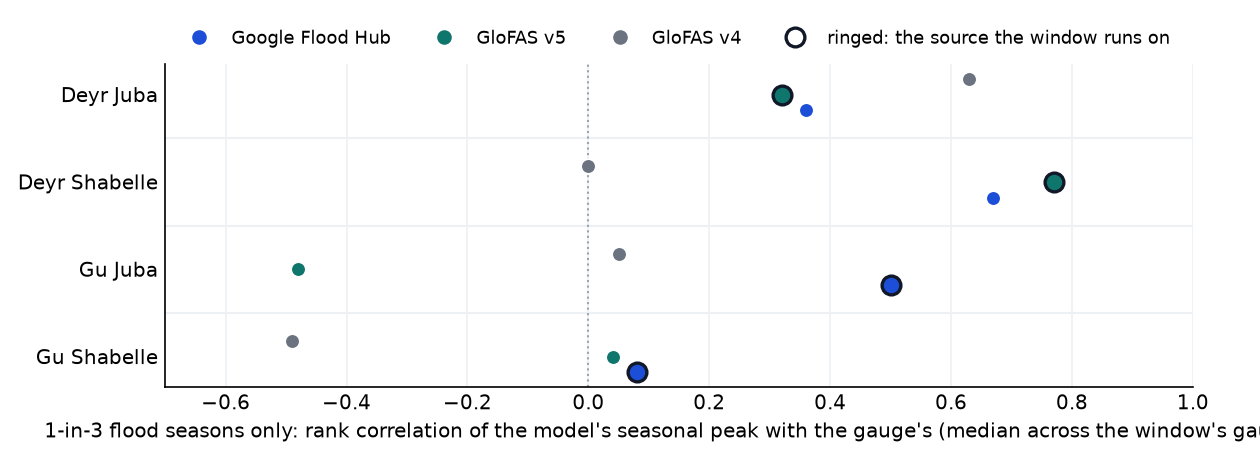
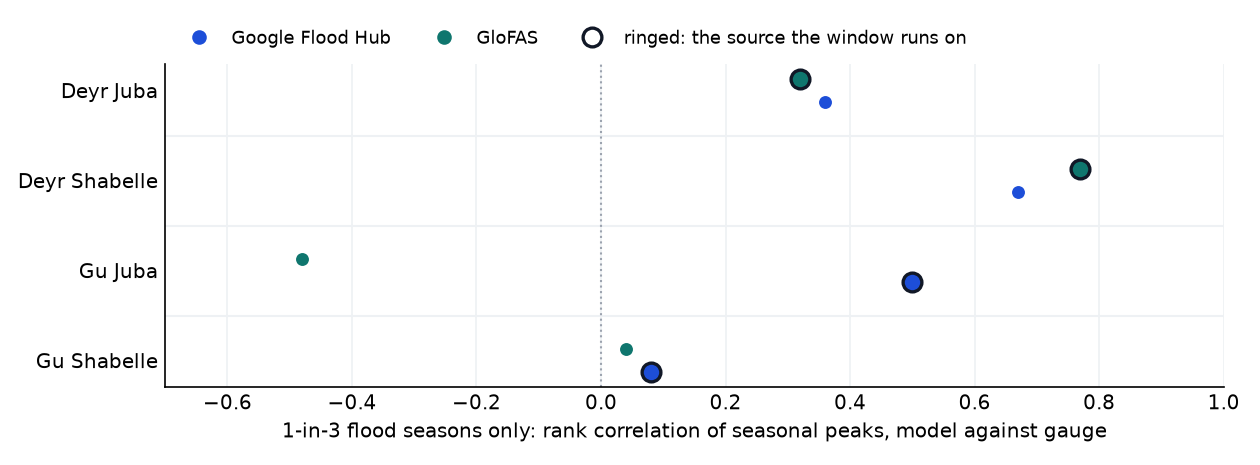
Summary page: reanalysis comparison is Google against GloFAS v5 only
The Which source table and the agreement plot compare the two calibrated
records, Google's retrospective run and GloFAS's version 5 reanalysis. GloFAS
v4 leaves this section; it is compared where it belongs, against Google's
reforecast, in Checked on the forecasts. The section says which record each
test uses. Axis label shortened so it no longer clips.

diff --git a/pages/trigger-single-model/summary.html b/pages/trigger-single-model/summary.html
@@ -28,4 +28,4 @@ details{margin:14px 0} summary{cursor:pointer;font-weight:600;padding:4px 0;colo
 <header><div class="wrap"><small>Somalia Riverine Flood Trigger / summary</small>
 <h1>How we got to the trigger</h1>
 <p>From what counts as a flood to what runs live, with the evidence each choice rests on. Figures are for 1999 to 2023 unless stated. Full analysis: <a href="index.html" style="color:#fff">trigger analysis page</a>.</p></div></header>
-<div class="wrap"><h2>The trigger</h2><p>Two rivers, two rainy seasons, four windows. Each window runs on one forecast source and one rule; any one window activating releases the full allocation.</p><div class='tw'><table><thead><tr><th>Window</th><th>Season</th><th>Source</th><th>Rule</th><th>Gauges</th></tr></thead><tbody><tr><td>Deyr Juba</td><td>October to December</td><td>GloFAS</td><td>3 of 4 gauges forecast over their own 1-in-4 level on the same day</td><td>Dollow, Luuq, Bardheere, Bualle</td></tr><tr><td>Deyr Shabelle</td><td>October to December</td><td>GloFAS</td><td>2 of 3 gauges forecast over their own 1-in-4 level on the same day</td><td>Belet Weyne, Bulo Burti, Jowhar</td></tr><tr><td>Gu Juba</td><td>March to May</td><td>Google Flood Hub</td><td>3 of 4 gauges forecast over their own 1-in-5 level on the same day</td><td>Dollow, Luuq, Bardheere, Bualle</td></tr><tr><td>Gu Shabelle</td><td>March to May</td><td>Google Flood Hub</td><td>2 of 3 gauges forecast over their own 1-in-6 level on the same day</td><td>Belet Weyne, Bulo Burti, Jowhar</td></tr></tbody></table></div><p class="note">Readiness activates 8 to 12 days ahead, on the GloFAS ensemble forecast in all windows or on a SWALIM moderate flood risk alert for either river, and releases the mobilisation share; action activates 1 to 7 days ahead and releases the rest. Thresholds are fitted on each source's own record, so a model that runs high is judged against itself.</p><h2>What counts as a flood</h2><p>The trigger is scored against what the rivers did, from the SWALIM gauge record. A river has a flood season when two of its gauges reach their own 1-in-3 level, a severe season when two reach 1-in-5. Each gauge's levels are fitted on its own 2000 to 2023 record.</p><div class='tw'><table><thead><tr><th>Window</th><th class="n">Flood seasons</th><th class="n">Severe</th><th>Severe years</th></tr></thead><tbody><tr><td>Deyr Juba</td><td class="n">5</td><td class="n">3</td><td>2006, 2014, 2023</td></tr><tr><td>Deyr Shabelle</td><td class="n">6</td><td class="n">5</td><td>2006, 2014, 2019, 2020, 2023</td></tr><tr><td>Gu Juba</td><td class="n">6</td><td class="n">3</td><td>2018, 2020, 2023</td></tr><tr><td>Gu Shabelle</td><td class="n">7</td><td class="n">3</td><td>2016, 2020, 2023</td></tr></tbody></table></div><p class="note">Across both rivers: 12 flood years, 7 severe. Gauges are capped at bank full, so the largest floods record the same reading, and a season where only one gauge crosses does not count even at bank full (Gu 2021 at Belet Weyne).</p><h2>Which source, and why</h2><p>Three global models were candidates: Google Flood Hub, GloFAS and GEOGloWS. GEOGloWS runs 4 to 10 times too high on the Shabelle and has no forecast archive, so it drops out. The other two were tested twice on each window: do they rank the flood seasons in the same order of size as the gauges did, and how many of the 1-in-3 flood seasons do they catch when the window's rule is applied to their own record. The ranking measure runs from 1, the model puts the flood seasons in exactly the gauges' order, through 0, no relation, to negative values, the wrong order.</p><div class='tw'><table><thead><tr><th></th><th colspan='3' class='n' style='border-bottom:1px solid var(--rule)'>Ranks the flood seasons as the gauges did</th><th colspan='3' class='n' style='border-bottom:1px solid var(--rule)'>1-in-3 flood seasons caught at the window's rule</th><th></th></tr><tr><th>Window</th><th class="n">Google Flood Hub</th><th class="n">GloFAS v5</th><th class="n">GloFAS v4</th><th class="n">Google Flood Hub</th><th class="n">GloFAS v5</th><th class="n">GloFAS v4</th><th>Chosen</th></tr></thead><tbody><tr><td>Deyr Juba</td><td class="n">0.36</td><td class="n">0.32</td><td class="n">0.63</td><td class="n">2 of 5</td><td class="n">2 of 5</td><td class="n">3 of 5</td><td>GloFAS</td></tr><tr><td>Deyr Shabelle</td><td class="n">0.67</td><td class="n">0.77</td><td class="n">0.00</td><td class="n">5 of 6</td><td class="n">5 of 6</td><td class="n">3 of 6</td><td>GloFAS</td></tr><tr><td>Gu Juba</td><td class="n">0.50</td><td class="n">-0.48</td><td class="n">0.05</td><td class="n">3 of 6</td><td class="n">4 of 6</td><td class="n">4 of 6</td><td>Google Flood Hub</td></tr><tr><td>Gu Shabelle</td><td class="n">0.08</td><td class="n">0.04</td><td class="n">-0.49</td><td class="n">3 of 7</td><td class="n">4 of 7</td><td class="n">4 of 7</td><td>Google Flood Hub</td></tr></tbody></table></div><figure><img src="figs/s_agreement.png" alt="Agreement with the gauges in flood seasons, by window and model"><figcaption>Ranking agreement, the left half of the table: rank correlation between the model's seasonal peak and the gauge's, over the gauge's own 1-in-3 seasons only (4 to 10 per gauge), median across the window's gauges. The ringed dot is the source the window runs on. Seasons caught, in the table, is the number of the window's 1-in-3 flood seasons in which the model's own record met the window's rule.</figcaption></figure><p>Google Flood Hub carries Gu: it ranks the flood seasons closest to the gauges, catches every severe Gu season that GloFAS catches (GloFAS catches one more of the moderate 1-in-3 seasons in each Gu window, and Google carries one activation in a year with no gauge flood, 2013), and its Gu forecasts arrive before the flood where GloFAS v4's mostly arrive after it, as the next section shows. GloFAS carries Deyr: Google over-activates on the Juba there (three activations with no flood) and misses the Shabelle in 2020, while GloFAS's Deyr record is clean. GloFAS v4, the version running live, ranks the flood seasons least like the gauges (pooled 0.03 against 0.43 for Google) and catches one severe Gu season of three on the Shabelle. Gu Shabelle reads near zero on ranking for every model because the gauge is capped at bank full in the largest floods; a limit of the record, not of the models.</p><h2>How often it activates</h2><p>Every threshold sits at 1-in-3 or rarer; the vote counts were set so the whole mechanism activates about once in three years while still catching every severe season.</p><div class='tw'><table><thead><tr><th></th><th class="n">Activations, 25 years</th><th>Return period</th><th>Years</th></tr></thead><tbody><tr><td>Deyr Juba</td><td class="n">2</td><td>1-in-13.0</td><td>2006, 2023</td></tr><tr><td>Deyr Shabelle</td><td class="n">6</td><td>1-in-4.3</td><td>2006, 2013, 2014, 2019, 2020, 2023</td></tr><tr><td>Gu Juba</td><td class="n">4</td><td>1-in-6.5</td><td>2013, 2016, 2018, 2020</td></tr><tr><td>Gu Shabelle</td><td class="n">4</td><td>1-in-6.5</td><td>2013, 2016, 2018, 2020</td></tr><tr><td>Juba, either window</td><td class="n">6</td><td>1-in-4.3</td><td>2006, 2013, 2016, 2018, 2020, 2023</td></tr><tr><td>Shabelle, either window</td><td class="n">8</td><td>1-in-3.2</td><td>2006, 2013, 2014, 2016, 2018, 2019, 2020, 2023</td></tr><tr><td>Whole mechanism</td><td class="n">8</td><td>1-in-3.2</td><td>2006, 2013, 2014, 2016, 2018, 2019, 2020, 2023</td></tr></tbody></table></div><figure><img src="figs/s_activations.png" alt="Flood seasons and activations by year and window"><figcaption>Squares: gauge flood seasons, dark where severe. Dots: years the window activates on its source, Google Flood Hub in Gu and GloFAS in Deyr. 8 activations in 25 years, all 7 severe seasons caught, one activation with no gauge flood behind it (2013, a year SWALIM and WFP both record as a major flood). Return periods are Weibull, (years + 1) over activations.</figcaption></figure><h2>Checked on the forecasts</h2><p>The tests above use each model's record of the past. A trigger runs on forecasts, so the historical forecasts were replayed to find the day the alert would have gone out, at lead times of 1 to 7 days, against the day the flood began at the gauges. Either river counts. Only Google Flood Hub (2016 to 2023) and GloFAS v4 (2003 to 2023, plus the live Gu 2024 forecasts) have archives, so this is a comparison of those two.</p><figure><img src="figs/s_leads.png" alt="Lead time of the first forecast issue meeting the rule, per flood season"><figcaption>One row per flood season, * severe. Green: the action window, 1 to 7 days before the flood; pale green: readiness. The dot is the first forecast issue that met the rule; the small ticks are every later issue that met it again. Points left of the line went out before the flood began; points to the right came after it.</figcaption></figure><p>Deyr: GloFAS v4 activated before the flood in 4 of 7 seasons and was first in 3 of the 4 both archives cover. Gu: Google was first in all 4, and on the Shabelle gave 10 to 13 days of warning in three of four seasons where GloFAS v4 gave 3 days once and nothing in the other three. The lead-time evidence and the calibration choice were made independently and agree.</p><details><summary>Flood by flood</summary><div class='tw'><table><thead><tr><th>Season</th><th>River(s) that flooded</th><th>Flood began</th><th>Google Flood Hub forecast</th><th>GloFAS v4 forecast</th><th>First</th></tr></thead><tbody><tr><td>Deyr 2006 *</td><td>Juba and Shabelle</td><td>30 Oct</td><td><span class="pill na">no archive</span></td><td><span class="pill never">never crossed</span></td><td></td></tr><tr><td>Deyr 2008</td><td>Juba and Shabelle</td><td>15 Nov</td><td><span class="pill na">no archive</span></td><td><span class="pill never">never crossed</span></td><td></td></tr><tr><td>Deyr 2014 *</td><td>Juba and Shabelle</td><td>20 Oct</td><td><span class="pill na">no archive</span></td><td><span class="pill before">13 d before</span><span class="who">Shabelle, 7 Oct</span></td><td></td></tr><tr><td>Deyr 2017</td><td>Juba</td><td>7 Nov</td><td><span class="pill never">never crossed</span></td><td><span class="pill before">19 d before</span><span class="who">Juba, 19 Oct</span></td><td>GloFAS v4</td></tr><tr><td>Deyr 2019 *</td><td>Shabelle</td><td>14 Oct</td><td><span class="pill before">12 d before</span><span class="who">Shabelle, 2 Oct</span></td><td><span class="pill before">12 d before</span><span class="who">Shabelle, 2 Oct</span></td><td>tie</td></tr><tr><td>Deyr 2020 *</td><td>Shabelle</td><td>1 Oct</td><td><span class="pill never">never crossed</span></td><td><span class="pill after">1 d after</span><span class="who">Shabelle, 2 Oct</span></td><td>GloFAS v4</td></tr><tr><td>Deyr 2023 *</td><td>Juba and Shabelle</td><td>25 Oct</td><td><span class="pill never">never crossed</span></td><td><span class="pill before">4 d before</span><span class="who">Juba, 21 Oct</span></td><td>GloFAS v4</td></tr><tr><td>Gu 2003</td><td>Shabelle</td><td>11 May</td><td><span class="pill na">no archive</span></td><td><span class="pill never">never crossed</span></td><td></td></tr><tr><td>Gu 2005</td><td>Juba and Shabelle</td><td>12 May</td><td><span class="pill na">no archive</span></td><td><span class="pill after">6 d after</span><span class="who">Shabelle, 18 May</span></td><td></td></tr><tr><td>Gu 2010</td><td>Juba and Shabelle</td><td>18 May</td><td><span class="pill na">no archive</span></td><td><span class="pill before">7 d before</span><span class="who">Shabelle, 11 May</span></td><td></td></tr><tr><td>Gu 2016 *</td><td>Juba and Shabelle</td><td>1 May</td><td><span class="pill before">1 d before</span><span class="who">Shabelle, 30 Apr</span></td><td><span class="pill after">7 d after</span><span class="who">Shabelle, 8 May</span></td><td>Google</td></tr><tr><td>Gu 2018 *</td><td>Juba and Shabelle</td><td>17 Apr</td><td><span class="pill before">2 d before</span><span class="who">Juba, 15 Apr</span></td><td><span class="pill after">17 d after</span><span class="who">Juba, 4 May</span></td><td>Google</td></tr><tr><td>Gu 2020 *</td><td>Juba and Shabelle</td><td>22 Apr</td><td><span class="pill same">same day</span><span class="who">Shabelle, 22 Apr</span></td><td><span class="pill after">9 d after</span><span class="who">Juba, 1 May</span></td><td>Google</td></tr><tr><td>Gu 2023 *</td><td>Juba and Shabelle</td><td>25 Mar</td><td><span class="pill after">32 d after</span><span class="who">Shabelle, 26 Apr</span></td><td><span class="pill never">never crossed</span></td><td>Google</td></tr><tr><td>Gu 2024 *</td><td>Juba and Shabelle</td><td>8 May</td><td><span class="pill na">no archive</span></td><td><span class="pill before">3 d before</span><span class="who">Juba, 5 May</span></td><td></td></tr></tbody></table></div></details><h2>SWALIM's alerts, and the fail-safe</h2><p>SWALIM's flood bulletins were first in 6 of the 8 seasons where both SWALIM and the window's source flagged, and in 5 seasons only SWALIM flagged. They are forward-looking and often early, so a SWALIM moderate flood risk alert for either river activates readiness. They cannot carry the action phase: CERF needs an activation basis that can be backtested, and the bulletins are expert judgement rather than a fixed rule.</p><p>If every forecast misses, a gauge at bank full is the fail-safe. On the record that would have activated 4 seasons no forecast caught, including Gu 2023 on the Shabelle, the one severe season every model missed. Where a forecast also activated, bank full came 3 to 14 days later: coverage, not lead time.</p><details><summary>SWALIM against the window's source, season by season</summary><div class='tw'><table><thead><tr><th>Season</th><th>River</th><th>SWALIM first bulletin</th><th>Who was first</th></tr></thead><tbody><tr><td>Deyr 2006</td><td>Juba</td><td>2006-10-31</td><td>GloFAS v5 2 d before SWALIM</td></tr><tr><td>Deyr 2006</td><td>Shabelle</td><td>2006-10-31</td><td>SWALIM 2 d before GloFAS v5</td></tr><tr><td>Deyr 2014</td><td>Juba</td><td>2014-10-15</td><td>SWALIM only; GloFAS v5 never crossed</td></tr><tr><td>Deyr 2014</td><td>Shabelle</td><td>2014-10-15</td><td>SWALIM 1 d before GloFAS v5</td></tr><tr><td>Deyr 2019</td><td>Juba</td><td>2019-10-22</td><td>SWALIM only; GloFAS v5 never crossed</td></tr><tr><td>Deyr 2019</td><td>Shabelle</td><td>2019-10-22</td><td>GloFAS v5 11 d before SWALIM</td></tr><tr><td>Deyr 2020</td><td>Shabelle</td><td>2020-09-08</td><td>no bulletin for the October rise</td></tr><tr><td>Deyr 2023</td><td>Juba</td><td>2023-10-20</td><td>SWALIM 9 d before GloFAS v5</td></tr><tr><td>Deyr 2023</td><td>Shabelle</td><td>2023-10-21</td><td>SWALIM 19 d before GloFAS v5</td></tr><tr><td>Gu 2016</td><td>Shabelle</td><td>no bulletin</td><td>no SWALIM bulletin; Google 12 May</td></tr><tr><td>Gu 2020</td><td>Juba</td><td>2020-04-27</td><td>SWALIM 2 d before Google</td></tr><tr><td>Gu 2020</td><td>Shabelle</td><td>2020-04-27</td><td>SWALIM 3 d before Google</td></tr><tr><td>Gu 2021</td><td>Juba</td><td>2021-05-10</td><td>SWALIM only; Google never crossed</td></tr><tr><td>Gu 2021</td><td>Shabelle</td><td>2021-05-10</td><td>SWALIM only; Google never crossed</td></tr><tr><td>Gu 2023</td><td>Shabelle</td><td>2023-05-08</td><td>SWALIM only; Google never crossed</td></tr><tr><td>Gu 2024</td><td>Juba</td><td>2024-05-09</td><td>Google record ends 2023</td></tr><tr><td>Gu 2024</td><td>Shabelle</td><td>2024-04-19</td><td>Google record ends 2023</td></tr></tbody></table></div></details><h2>What runs live, and what is open</h2><ul><li><b>GloFAS version 4 runs both phases today.</b> Deyr is calibrated on version 5, which has no published forecast yet; Gu on Google Flood Hub, to which there is no API access yet. Version 4 stands in with levels refitted on its own record.</li><li><b>Two gauges have stopped reporting</b>: Bardheere from 30 November 2023, Bualle from 14 March 2024.</li><li><b>Impact years are not yet defined.</b> The benchmark is gauge levels, not people affected; 2013 and 2021 show why an impact cross-check is the next step. Each window holds three to five severe seasons, so every difference on this page is a one- or two-event difference.</li></ul><footer>Generated 2026-09-14 from the trigger analysis outputs; every number is recomputed from them and checked against the analysis page when the page is built.</footer></div></body></html>
+<div class="wrap"><h2>The trigger</h2><p>Two rivers, two rainy seasons, four windows. Each window runs on one forecast source and one rule; any one window activating releases the full allocation.</p><div class='tw'><table><thead><tr><th>Window</th><th>Season</th><th>Source</th><th>Rule</th><th>Gauges</th></tr></thead><tbody><tr><td>Deyr Juba</td><td>October to December</td><td>GloFAS</td><td>3 of 4 gauges forecast over their own 1-in-4 level on the same day</td><td>Dollow, Luuq, Bardheere, Bualle</td></tr><tr><td>Deyr Shabelle</td><td>October to December</td><td>GloFAS</td><td>2 of 3 gauges forecast over their own 1-in-4 level on the same day</td><td>Belet Weyne, Bulo Burti, Jowhar</td></tr><tr><td>Gu Juba</td><td>March to May</td><td>Google Flood Hub</td><td>3 of 4 gauges forecast over their own 1-in-5 level on the same day</td><td>Dollow, Luuq, Bardheere, Bualle</td></tr><tr><td>Gu Shabelle</td><td>March to May</td><td>Google Flood Hub</td><td>2 of 3 gauges forecast over their own 1-in-6 level on the same day</td><td>Belet Weyne, Bulo Burti, Jowhar</td></tr></tbody></table></div><p class="note">Readiness activates 8 to 12 days ahead, on the GloFAS ensemble forecast in all windows or on a SWALIM moderate flood risk alert for either river, and releases the mobilisation share; action activates 1 to 7 days ahead and releases the rest. Thresholds are fitted on each source's own record, so a model that runs high is judged against itself.</p><h2>What counts as a flood</h2><p>The trigger is scored against what the rivers did, from the SWALIM gauge record. A river has a flood season when two of its gauges reach their own 1-in-3 level, a severe season when two reach 1-in-5. Each gauge's levels are fitted on its own 2000 to 2023 record.</p><div class='tw'><table><thead><tr><th>Window</th><th class="n">Flood seasons</th><th class="n">Severe</th><th>Severe years</th></tr></thead><tbody><tr><td>Deyr Juba</td><td class="n">5</td><td class="n">3</td><td>2006, 2014, 2023</td></tr><tr><td>Deyr Shabelle</td><td class="n">6</td><td class="n">5</td><td>2006, 2014, 2019, 2020, 2023</td></tr><tr><td>Gu Juba</td><td class="n">6</td><td class="n">3</td><td>2018, 2020, 2023</td></tr><tr><td>Gu Shabelle</td><td class="n">7</td><td class="n">3</td><td>2016, 2020, 2023</td></tr></tbody></table></div><p class="note">Across both rivers: 12 flood years, 7 severe. Gauges are capped at bank full, so the largest floods record the same reading, and a season where only one gauge crosses does not count even at bank full (Gu 2021 at Belet Weyne).</p><h2>Which source, and why</h2><p>Three global models were candidates: Google Flood Hub, GloFAS and GEOGloWS. GEOGloWS runs 4 to 10 times too high on the Shabelle and has no forecast archive, so it drops out. The other two were tested twice on each window, each on its own record of the past (Google's retrospective run, GloFAS's version 5 reanalysis; the forecasts are compared in the next section): do they rank the flood seasons in the same order of size as the gauges did, and how many of the 1-in-3 flood seasons do they catch when the window's rule is applied to their own record. The ranking measure runs from 1, the model puts the flood seasons in exactly the gauges' order, through 0, no relation, to negative values, the wrong order.</p><div class='tw'><table><thead><tr><th></th><th colspan='2' class='n' style='border-bottom:1px solid var(--rule)'>Ranks the flood seasons as the gauges did</th><th colspan='2' class='n' style='border-bottom:1px solid var(--rule)'>1-in-3 flood seasons caught at the window's rule</th><th></th></tr><tr><th>Window</th><th class="n">Google Flood Hub</th><th class="n">GloFAS</th><th class="n">Google Flood Hub</th><th class="n">GloFAS</th><th>Chosen</th></tr></thead><tbody><tr><td>Deyr Juba</td><td class="n">0.36</td><td class="n">0.32</td><td class="n">2 of 5</td><td class="n">2 of 5</td><td>GloFAS</td></tr><tr><td>Deyr Shabelle</td><td class="n">0.67</td><td class="n">0.77</td><td class="n">5 of 6</td><td class="n">5 of 6</td><td>GloFAS</td></tr><tr><td>Gu Juba</td><td class="n">0.50</td><td class="n">-0.48</td><td class="n">3 of 6</td><td class="n">4 of 6</td><td>Google Flood Hub</td></tr><tr><td>Gu Shabelle</td><td class="n">0.08</td><td class="n">0.04</td><td class="n">3 of 7</td><td class="n">4 of 7</td><td>Google Flood Hub</td></tr></tbody></table></div><figure><img src="figs/s_agreement.png" alt="Agreement with the gauges in flood seasons, by window and model"><figcaption>Ranking agreement, the left half of the table: rank correlation between the model's seasonal peak and the gauge's, over the gauge's own 1-in-3 seasons only (4 to 10 per gauge), median across the window's gauges. The ringed dot is the source the window runs on. Seasons caught, in the table, is the number of the window's 1-in-3 flood seasons in which the model's own record met the window's rule.</figcaption></figure><p>Google Flood Hub carries Gu: it ranks the flood seasons closest to the gauges, catches every severe Gu season that GloFAS catches (GloFAS catches one more of the moderate 1-in-3 seasons in each Gu window, and Google carries one activation in a year with no gauge flood, 2013), and its Gu forecasts arrive before the flood where GloFAS v4's mostly arrive after it, as the next section shows. GloFAS carries Deyr: Google over-activates on the Juba there (three activations with no flood) and misses the Shabelle in 2020, while GloFAS's Deyr record is clean. Gu Shabelle reads near zero on ranking for every model because the gauge is capped at bank full in the largest floods; a limit of the record, not of the models.</p><h2>How often it activates</h2><p>Every threshold sits at 1-in-3 or rarer; the vote counts were set so the whole mechanism activates about once in three years while still catching every severe season.</p><div class='tw'><table><thead><tr><th></th><th class="n">Activations, 25 years</th><th>Return period</th><th>Years</th></tr></thead><tbody><tr><td>Deyr Juba</td><td class="n">2</td><td>1-in-13.0</td><td>2006, 2023</td></tr><tr><td>Deyr Shabelle</td><td class="n">6</td><td>1-in-4.3</td><td>2006, 2013, 2014, 2019, 2020, 2023</td></tr><tr><td>Gu Juba</td><td class="n">4</td><td>1-in-6.5</td><td>2013, 2016, 2018, 2020</td></tr><tr><td>Gu Shabelle</td><td class="n">4</td><td>1-in-6.5</td><td>2013, 2016, 2018, 2020</td></tr><tr><td>Juba, either window</td><td class="n">6</td><td>1-in-4.3</td><td>2006, 2013, 2016, 2018, 2020, 2023</td></tr><tr><td>Shabelle, either window</td><td class="n">8</td><td>1-in-3.2</td><td>2006, 2013, 2014, 2016, 2018, 2019, 2020, 2023</td></tr><tr><td>Whole mechanism</td><td class="n">8</td><td>1-in-3.2</td><td>2006, 2013, 2014, 2016, 2018, 2019, 2020, 2023</td></tr></tbody></table></div><figure><img src="figs/s_activations.png" alt="Flood seasons and activations by year and window"><figcaption>Squares: gauge flood seasons, dark where severe. Dots: years the window activates on its source, Google Flood Hub in Gu and GloFAS in Deyr. 8 activations in 25 years, all 7 severe seasons caught, one activation with no gauge flood behind it (2013, a year SWALIM and WFP both record as a major flood). Return periods are Weibull, (years + 1) over activations.</figcaption></figure><h2>Checked on the forecasts</h2><p>The tests above use each model's record of the past. A trigger runs on forecasts, so the historical forecasts were replayed to find the day the alert would have gone out, at lead times of 1 to 7 days, against the day the flood began at the gauges. Either river counts. Only Google Flood Hub (2016 to 2023) and GloFAS v4 (2003 to 2023, plus the live Gu 2024 forecasts) have archives, so this is a comparison of those two.</p><figure><img src="figs/s_leads.png" alt="Lead time of the first forecast issue meeting the rule, per flood season"><figcaption>One row per flood season, * severe. Green: the action window, 1 to 7 days before the flood; pale green: readiness. The dot is the first forecast issue that met the rule; the small ticks are every later issue that met it again. Points left of the line went out before the flood began; points to the right came after it.</figcaption></figure><p>Deyr: GloFAS v4 activated before the flood in 4 of 7 seasons and was first in 3 of the 4 both archives cover. Gu: Google was first in all 4, and on the Shabelle gave 10 to 13 days of warning in three of four seasons where GloFAS v4 gave 3 days once and nothing in the other three. The lead-time evidence and the calibration choice were made independently and agree.</p><details><summary>Flood by flood</summary><div class='tw'><table><thead><tr><th>Season</th><th>River(s) that flooded</th><th>Flood began</th><th>Google Flood Hub forecast</th><th>GloFAS v4 forecast</th><th>First</th></tr></thead><tbody><tr><td>Deyr 2006 *</td><td>Juba and Shabelle</td><td>30 Oct</td><td><span class="pill na">no archive</span></td><td><span class="pill never">never crossed</span></td><td></td></tr><tr><td>Deyr 2008</td><td>Juba and Shabelle</td><td>15 Nov</td><td><span class="pill na">no archive</span></td><td><span class="pill never">never crossed</span></td><td></td></tr><tr><td>Deyr 2014 *</td><td>Juba and Shabelle</td><td>20 Oct</td><td><span class="pill na">no archive</span></td><td><span class="pill before">13 d before</span><span class="who">Shabelle, 7 Oct</span></td><td></td></tr><tr><td>Deyr 2017</td><td>Juba</td><td>7 Nov</td><td><span class="pill never">never crossed</span></td><td><span class="pill before">19 d before</span><span class="who">Juba, 19 Oct</span></td><td>GloFAS v4</td></tr><tr><td>Deyr 2019 *</td><td>Shabelle</td><td>14 Oct</td><td><span class="pill before">12 d before</span><span class="who">Shabelle, 2 Oct</span></td><td><span class="pill before">12 d before</span><span class="who">Shabelle, 2 Oct</span></td><td>tie</td></tr><tr><td>Deyr 2020 *</td><td>Shabelle</td><td>1 Oct</td><td><span class="pill never">never crossed</span></td><td><span class="pill after">1 d after</span><span class="who">Shabelle, 2 Oct</span></td><td>GloFAS v4</td></tr><tr><td>Deyr 2023 *</td><td>Juba and Shabelle</td><td>25 Oct</td><td><span class="pill never">never crossed</span></td><td><span class="pill before">4 d before</span><span class="who">Juba, 21 Oct</span></td><td>GloFAS v4</td></tr><tr><td>Gu 2003</td><td>Shabelle</td><td>11 May</td><td><span class="pill na">no archive</span></td><td><span class="pill never">never crossed</span></td><td></td></tr><tr><td>Gu 2005</td><td>Juba and Shabelle</td><td>12 May</td><td><span class="pill na">no archive</span></td><td><span class="pill after">6 d after</span><span class="who">Shabelle, 18 May</span></td><td></td></tr><tr><td>Gu 2010</td><td>Juba and Shabelle</td><td>18 May</td><td><span class="pill na">no archive</span></td><td><span class="pill before">7 d before</span><span class="who">Shabelle, 11 May</span></td><td></td></tr><tr><td>Gu 2016 *</td><td>Juba and Shabelle</td><td>1 May</td><td><span class="pill before">1 d before</span><span class="who">Shabelle, 30 Apr</span></td><td><span class="pill after">7 d after</span><span class="who">Shabelle, 8 May</span></td><td>Google</td></tr><tr><td>Gu 2018 *</td><td>Juba and Shabelle</td><td>17 Apr</td><td><span class="pill before">2 d before</span><span class="who">Juba, 15 Apr</span></td><td><span class="pill after">17 d after</span><span class="who">Juba, 4 May</span></td><td>Google</td></tr><tr><td>Gu 2020 *</td><td>Juba and Shabelle</td><td>22 Apr</td><td><span class="pill same">same day</span><span class="who">Shabelle, 22 Apr</span></td><td><span class="pill after">9 d after</span><span class="who">Juba, 1 May</span></td><td>Google</td></tr><tr><td>Gu 2023 *</td><td>Juba and Shabelle</td><td>25 Mar</td><td><span class="pill after">32 d after</span><span class="who">Shabelle, 26 Apr</span></td><td><span class="pill never">never crossed</span></td><td>Google</td></tr><tr><td>Gu 2024 *</td><td>Juba and Shabelle</td><td>8 May</td><td><span class="pill na">no archive</span></td><td><span class="pill before">3 d before</span><span class="who">Juba, 5 May</span></td><td></td></tr></tbody></table></div></details><h2>SWALIM's alerts, and the fail-safe</h2><p>SWALIM's flood bulletins were first in 6 of the 8 seasons where both SWALIM and the window's source flagged, and in 5 seasons only SWALIM flagged. They are forward-looking and often early, so a SWALIM moderate flood risk alert for either river activates readiness. They cannot carry the action phase: CERF needs an activation basis that can be backtested, and the bulletins are expert judgement rather than a fixed rule.</p><p>If every forecast misses, a gauge at bank full is the fail-safe. On the record that would have activated 4 seasons no forecast caught, including Gu 2023 on the Shabelle, the one severe season every model missed. Where a forecast also activated, bank full came 3 to 14 days later: coverage, not lead time.</p><details><summary>SWALIM against the window's source, season by season</summary><div class='tw'><table><thead><tr><th>Season</th><th>River</th><th>SWALIM first bulletin</th><th>Who was first</th></tr></thead><tbody><tr><td>Deyr 2006</td><td>Juba</td><td>2006-10-31</td><td>GloFAS v5 2 d before SWALIM</td></tr><tr><td>Deyr 2006</td><td>Shabelle</td><td>2006-10-31</td><td>SWALIM 2 d before GloFAS v5</td></tr><tr><td>Deyr 2014</td><td>Juba</td><td>2014-10-15</td><td>SWALIM only; GloFAS v5 never crossed</td></tr><tr><td>Deyr 2014</td><td>Shabelle</td><td>2014-10-15</td><td>SWALIM 1 d before GloFAS v5</td></tr><tr><td>Deyr 2019</td><td>Juba</td><td>2019-10-22</td><td>SWALIM only; GloFAS v5 never crossed</td></tr><tr><td>Deyr 2019</td><td>Shabelle</td><td>2019-10-22</td><td>GloFAS v5 11 d before SWALIM</td></tr><tr><td>Deyr 2020</td><td>Shabelle</td><td>2020-09-08</td><td>no bulletin for the October rise</td></tr><tr><td>Deyr 2023</td><td>Juba</td><td>2023-10-20</td><td>SWALIM 9 d before GloFAS v5</td></tr><tr><td>Deyr 2023</td><td>Shabelle</td><td>2023-10-21</td><td>SWALIM 19 d before GloFAS v5</td></tr><tr><td>Gu 2016</td><td>Shabelle</td><td>no bulletin</td><td>no SWALIM bulletin; Google 12 May</td></tr><tr><td>Gu 2020</td><td>Juba</td><td>2020-04-27</td><td>SWALIM 2 d before Google</td></tr><tr><td>Gu 2020</td><td>Shabelle</td><td>2020-04-27</td><td>SWALIM 3 d before Google</td></tr><tr><td>Gu 2021</td><td>Juba</td><td>2021-05-10</td><td>SWALIM only; Google never crossed</td></tr><tr><td>Gu 2021</td><td>Shabelle</td><td>2021-05-10</td><td>SWALIM only; Google never crossed</td></tr><tr><td>Gu 2023</td><td>Shabelle</td><td>2023-05-08</td><td>SWALIM only; Google never crossed</td></tr><tr><td>Gu 2024</td><td>Juba</td><td>2024-05-09</td><td>Google record ends 2023</td></tr><tr><td>Gu 2024</td><td>Shabelle</td><td>2024-04-19</td><td>Google record ends 2023</td></tr></tbody></table></div></details><h2>What runs live, and what is open</h2><ul><li><b>GloFAS version 4 runs both phases today.</b> Deyr is calibrated on version 5, which has no published forecast yet; Gu on Google Flood Hub, to which there is no API access yet. Version 4 stands in with levels refitted on its own record.</li><li><b>Two gauges have stopped reporting</b>: Bardheere from 30 November 2023, Bualle from 14 March 2024.</li><li><b>Impact years are not yet defined.</b> The benchmark is gauge levels, not people affected; 2013 and 2021 show why an impact cross-check is the next step. Each window holds three to five severe seasons, so every difference on this page is a one- or two-event difference.</li></ul><footer>Generated 2026-09-14 from the trigger analysis outputs; every number is recomputed from them and checked against the analysis page when the page is built.</footer></div></body></html>

diff --git a/scripts/page_additions/summary_page.py b/scripts/page_additions/summary_page.py
@@ -194,7 +194,7 @@ def fig_agreement():
     fig, ax = plt.subplots(figsize=(8.4, 3.1))
     labels = [wname(r, s) for r, s in WINDOWS]
     for i, (r, s) in enumerate(WINDOWS):
-        for m, dy in (("google_grrr", .18), ("glofas_v5", 0), ("glofas_v4", -.18)):
+        for m, dy in (("google_grrr", .13), ("glofas_v5", -.13)):
             v = agree[(r, s)][m]
             chosen = (m == CAL[s])
             ax.plot([v], [i + dy], "o", color=COL[m], ms=9 if chosen else 7, mec=("#111827" if chosen else "white"),
@@ -202,11 +202,11 @@ def fig_agreement():
         ax.axhline(i + .5, color="#eef1f4", lw=1) if i < 3 else None
     ax.axvline(0, color="#9ca3af", lw=1, ls=":")
     ax.set_yticks(range(len(labels))); ax.set_yticklabels(labels); ax.invert_yaxis()
-    ax.set_xlim(-0.7, 1.0); ax.set_xlabel("1-in-3 flood seasons only: rank correlation of the model's seasonal peak with the gauge's (median across the window's gauges)")
+    ax.set_xlim(-0.7, 1.0); ax.set_xlabel("1-in-3 flood seasons only: rank correlation of seasonal peaks, model against gauge")
     ax.grid(axis="x", color="#eef1f4"); ax.tick_params(length=0)
-    handles = [Line2D([], [], marker="o", ls="none", color=COL[m], label=NICE[m]) for m in ("google_grrr", "glofas_v5", "glofas_v4")]
+    handles = [Line2D([], [], marker="o", ls="none", color=COL[m], label=("Google Flood Hub" if m == "google_grrr" else "GloFAS")) for m in ("google_grrr", "glofas_v5")]
     handles.append(Line2D([], [], marker="o", ls="none", color="white", mec="#111827", mew=1.6, ms=9, label="ringed: the source the window runs on"))
-    ax.legend(handles=handles, loc="lower left", frameon=False, ncol=4, bbox_to_anchor=(0, 1.0), fontsize=8.6)
+    ax.legend(handles=handles, loc="lower left", frameon=False, ncol=3, bbox_to_anchor=(0, 1.0), fontsize=8.6)
     fig.tight_layout(); fig.savefig(FIGS / "s_agreement.png", dpi=150); plt.close(fig)
 
 
@@ -333,26 +333,26 @@ add(table(["Window", "#Flood seasons", "#Severe", "Severe years"],
           [[c(wname(r, s)), n(str(len(flood[(r, s)]))), n(str(len(severe[(r, s)]))), c(yl(severe[(r, s)]))] for r, s in WINDOWS]))
 add(f"<p class=\"note\">Across both rivers: {len(flood_all)} flood years, {len(severe_all)} severe. Gauges are capped at bank full, so the largest floods record the same reading, and a season where only one gauge crosses does not count even at bank full (Gu 2021 at Belet Weyne).</p>")
 
-add("<h2>Which source, and why</h2><p>Three global models were candidates: Google Flood Hub, GloFAS and GEOGloWS. GEOGloWS runs 4 to 10 times too high on the Shabelle and has no forecast archive, so it drops out. The other two were tested twice on each window: do they rank the flood seasons in the same order of size as the gauges did, and how many of the 1-in-3 flood seasons do they catch when the window's rule is applied to their own record. The ranking measure runs from 1, the model puts the flood seasons in exactly the gauges' order, through 0, no relation, to negative values, the wrong order.</p>")
+add("<h2>Which source, and why</h2><p>Three global models were candidates: Google Flood Hub, GloFAS and GEOGloWS. GEOGloWS runs 4 to 10 times too high on the Shabelle and has no forecast archive, so it drops out. The other two were tested twice on each window, each on its own record of the past (Google's retrospective run, GloFAS's version 5 reanalysis; the forecasts are compared in the next section): do they rank the flood seasons in the same order of size as the gauges did, and how many of the 1-in-3 flood seasons do they catch when the window's rule is applied to their own record. The ranking measure runs from 1, the model puts the flood seasons in exactly the gauges' order, through 0, no relation, to negative values, the wrong order.</p>")
 rows = []
 for r, s in WINDOWS:
     w = win[wname(r, s)]
     row = [c(wname(r, s))]
-    for m in ("google_grrr", "glofas_v5", "glofas_v4"):
+    for m in ("google_grrr", "glofas_v5"):
         row.append(n(f"{agree[(r, s)][m]:.2f}"))
-    for m in ("google_grrr", "glofas_v5", "glofas_v4"):
+    for m in ("google_grrr", "glofas_v5"):
         a_ = w["models"][m]
         row.append(n(f"{a_['vs_flood']['hits']} of {len(w['flood_years'])}"))
     row.append(c(SOURCE[s]))
     rows.append(row)
 _body = "".join("<tr>" + "".join(f"<td{a}>{c_}</td>" for c_, a in r) + "</tr>" for r in rows)
-_mods = "".join(f'<th class="n">{NICE[m]}</th>' for m in ("google_grrr", "glofas_v5", "glofas_v4"))
+_mods = "".join(f'<th class="n">{"Google Flood Hub" if m == "google_grrr" else "GloFAS"}</th>' for m in ("google_grrr", "glofas_v5"))
 add("<div class='tw'><table><thead>"
-    "<tr><th></th><th colspan='3' class='n' style='border-bottom:1px solid var(--rule)'>Ranks the flood seasons as the gauges did</th>"
-    "<th colspan='3' class='n' style='border-bottom:1px solid var(--rule)'>1-in-3 flood seasons caught at the window's rule</th><th></th></tr>"
+    "<tr><th></th><th colspan='2' class='n' style='border-bottom:1px solid var(--rule)'>Ranks the flood seasons as the gauges did</th>"
+    "<th colspan='2' class='n' style='border-bottom:1px solid var(--rule)'>1-in-3 flood seasons caught at the window's rule</th><th></th></tr>"
     f"<tr><th>Window</th>{_mods}{_mods}<th>Chosen</th></tr></thead><tbody>{_body}</tbody></table></div>")
 add("<figure><img src=\"figs/s_agreement.png\" alt=\"Agreement with the gauges in flood seasons, by window and model\"><figcaption>Ranking agreement, the left half of the table: rank correlation between the model's seasonal peak and the gauge's, over the gauge's own 1-in-3 seasons only (4 to 10 per gauge), median across the window's gauges. The ringed dot is the source the window runs on. Seasons caught, in the table, is the number of the window's 1-in-3 flood seasons in which the model's own record met the window's rule.</figcaption></figure>")
-add(f"<p>Google Flood Hub carries Gu: it ranks the flood seasons closest to the gauges, catches every severe Gu season that GloFAS catches (GloFAS catches one more of the moderate 1-in-3 seasons in each Gu window, and Google carries one activation in a year with no gauge flood, 2013), and its Gu forecasts arrive before the flood where GloFAS v4's mostly arrive after it, as the next section shows. GloFAS carries Deyr: Google over-activates on the Juba there (three activations with no flood) and misses the Shabelle in 2020, while GloFAS's Deyr record is clean. GloFAS v4, the version running live, ranks the flood seasons least like the gauges (pooled {pooled['glofas_v4']:.2f} against {pooled['google_grrr']:.2f} for Google) and catches one severe Gu season of three on the Shabelle. Gu Shabelle reads near zero on ranking for every model because the gauge is capped at bank full in the largest floods; a limit of the record, not of the models.</p>")
+add(f"<p>Google Flood Hub carries Gu: it ranks the flood seasons closest to the gauges, catches every severe Gu season that GloFAS catches (GloFAS catches one more of the moderate 1-in-3 seasons in each Gu window, and Google carries one activation in a year with no gauge flood, 2013), and its Gu forecasts arrive before the flood where GloFAS v4's mostly arrive after it, as the next section shows. GloFAS carries Deyr: Google over-activates on the Juba there (three activations with no flood) and misses the Shabelle in 2020, while GloFAS's Deyr record is clean. Gu Shabelle reads near zero on ranking for every model because the gauge is capped at bank full in the largest floods; a limit of the record, not of the models.</p>")
 
 add("<h2>How often it activates</h2><p>Every threshold sits at 1-in-3 or rarer; the vote counts were set so the whole mechanism activates about once in three years while still catching every severe season.</p>")
 add(table(["", "#Activations, 25 years", "Return period", "Years"],
